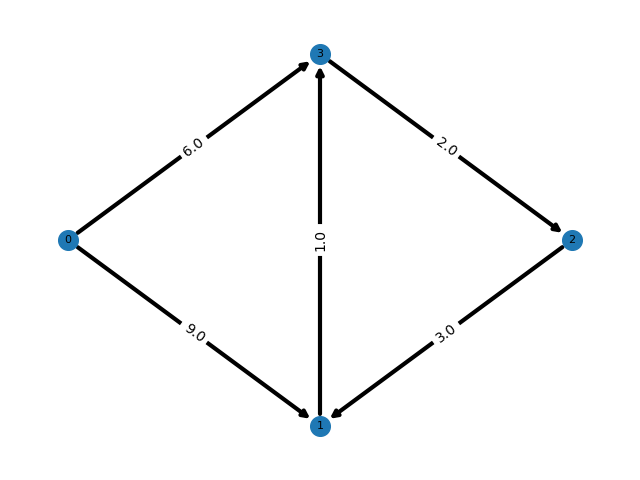
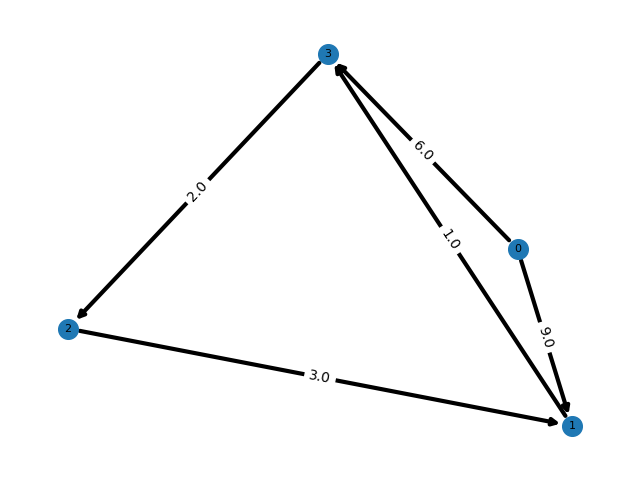
refractor: cambio de layout para graficar

diff --git a/main.py b/main.py
@@ -272,12 +272,12 @@ def ejercicio_4():
     dist_min = d[11]
     camino = reconstruir_camino(p, 0, 11)
 
-    graf(matriz, "Ejercicio4")
+    graf(matriz, "Ejercicio4", True, True)
 
     return [dist_min, camino]
 
 
-def graf(matriz: list[list[float]], name: str, dir=True):
+def graf(matriz: list[list[float]], name: str, dir=True, bfs=False):
     n = len(matriz)
     if dir:
         g = nx.DiGraph()
@@ -290,7 +290,11 @@ def graf(matriz: list[list[float]], name: str, dir=True):
                 g.add_edge(i, j, weight=matriz[i][j])
 
     large = [(u, v) for (u, v, d) in g.edges(data=True)]
-    pos = nx.bfs_layout(g, 0)
+
+    if bfs:
+        pos = nx.bfs_layout(g, 0)
+    else:
+        pos = nx.spring_layout(g, seed=1270)
 
     nx.draw_networkx_nodes(g, pos, node_size=200)
     nx.draw_networkx_edges(g, pos, edgelist=large, width=3)
